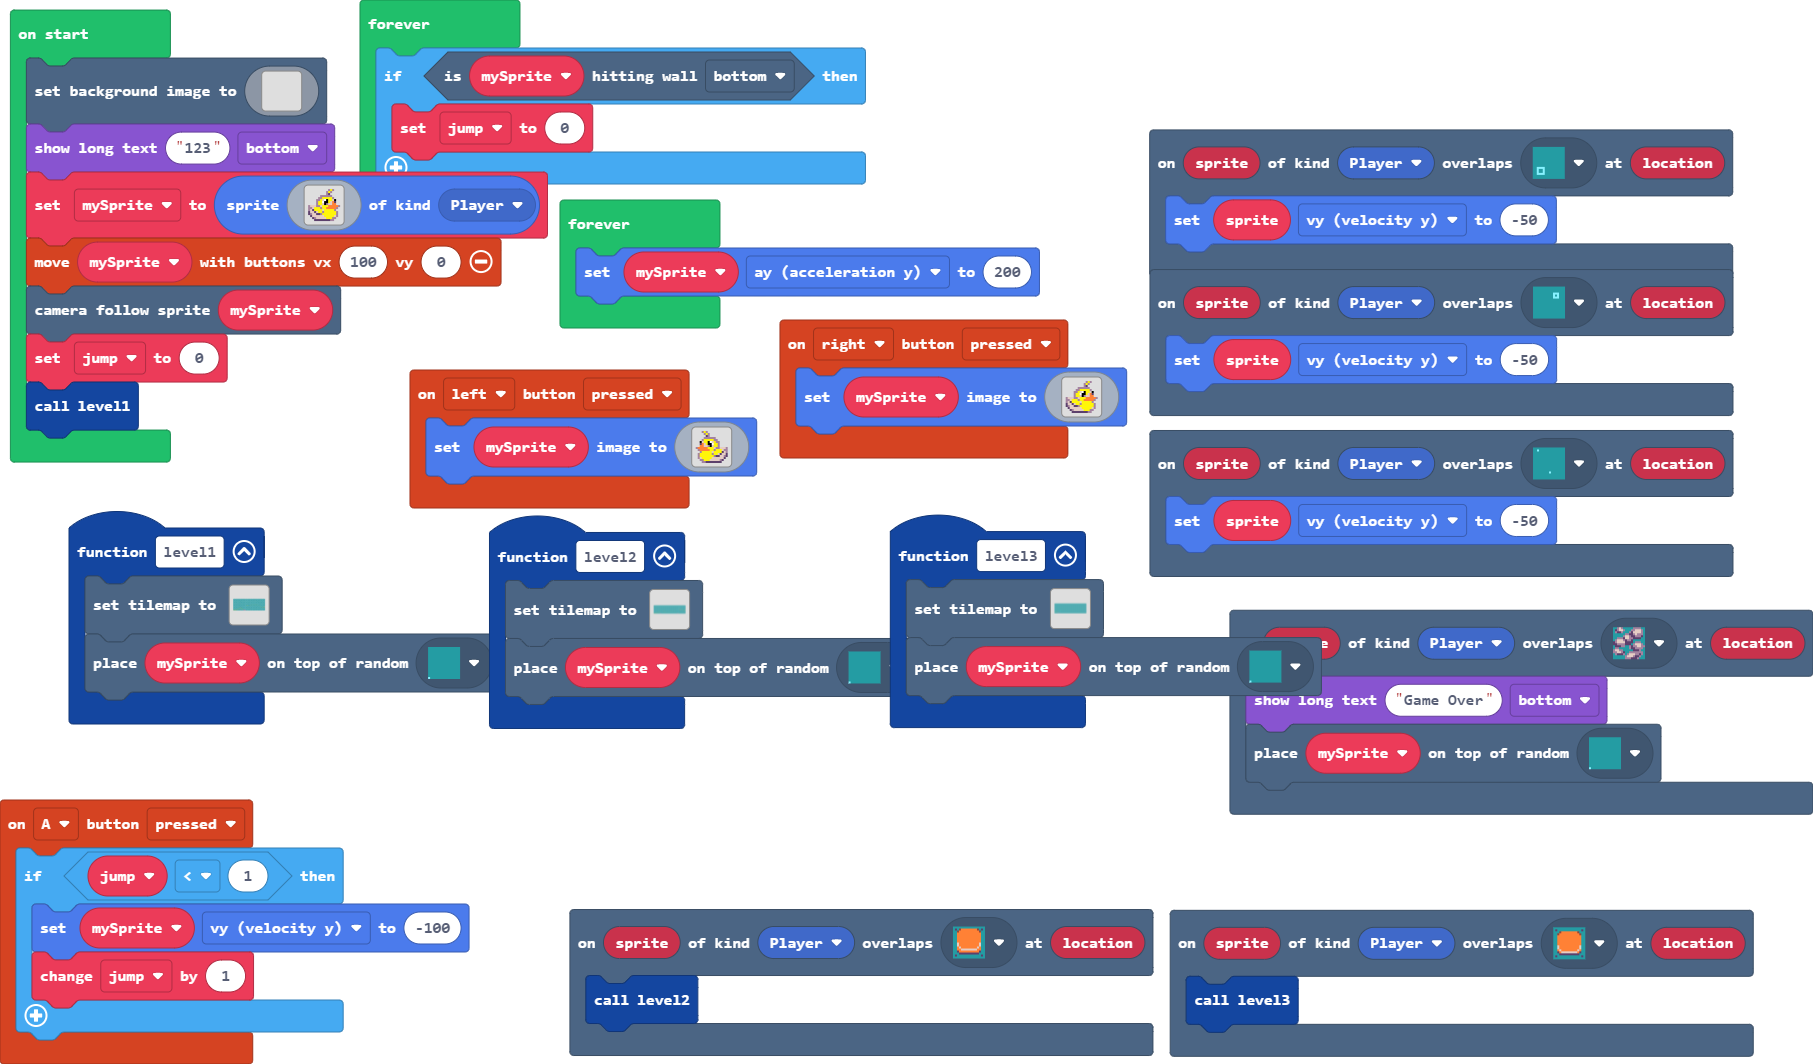
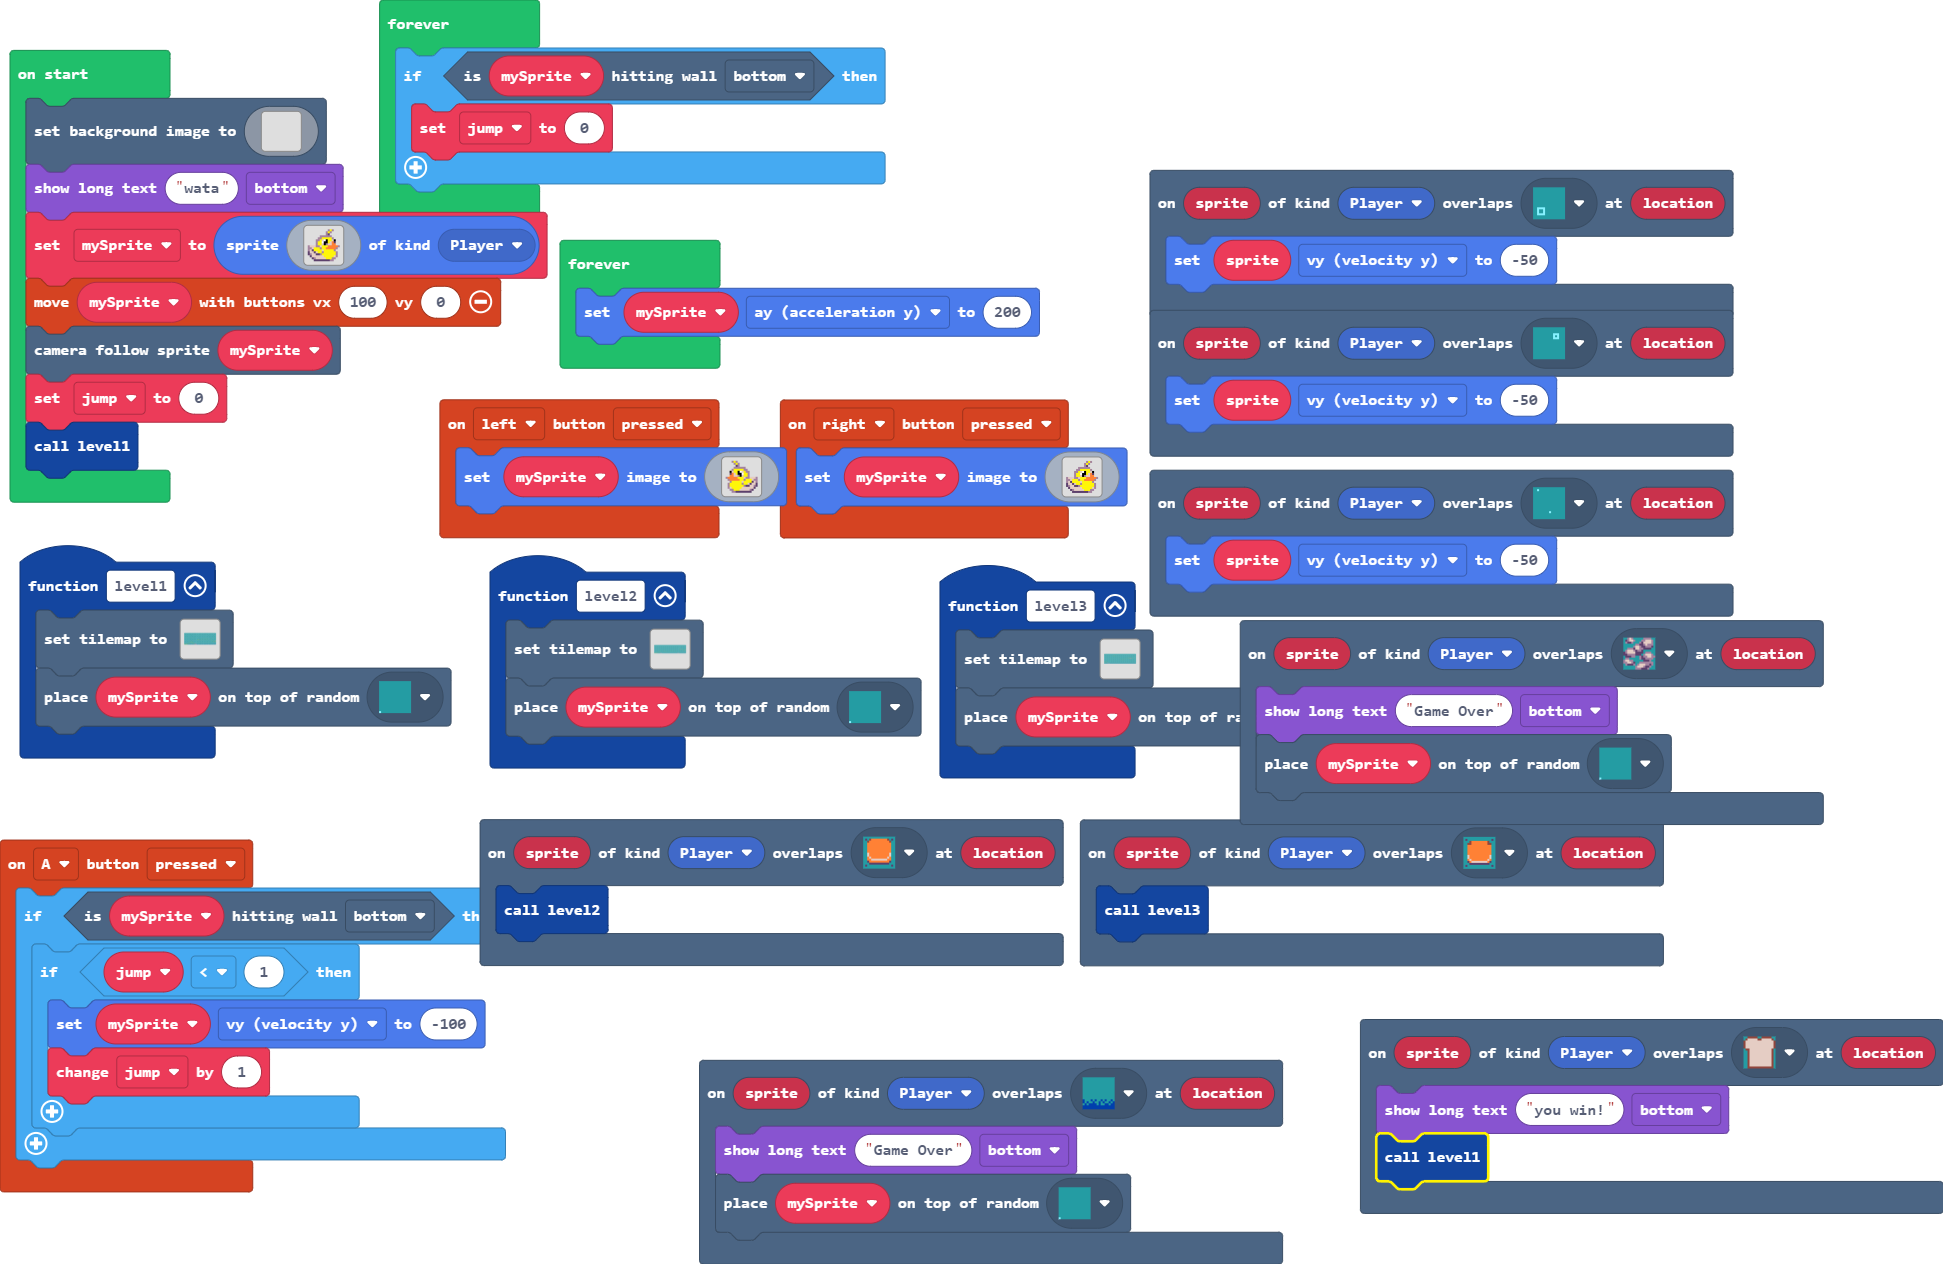
finished 3rd level and added some obsticals

diff --git a/tilemap.g.ts b/tilemap.g.ts
@@ -33,6 +33,12 @@ namespace myTiles {
     //% fixedInstance jres blockIdentity=images._tile
     export const tile15 = image.ofBuffer(hex``);
     //% fixedInstance jres blockIdentity=images._tile
+    export const tile17 = image.ofBuffer(hex``);
+    //% fixedInstance jres blockIdentity=images._tile
+    export const tile19 = image.ofBuffer(hex``);
+    //% fixedInstance jres blockIdentity=images._tile
+    export const tile18 = image.ofBuffer(hex``);
+    //% fixedInstance jres blockIdentity=images._tile
     export const tile16 = image.ofBuffer(hex``);
 
     helpers._registerFactory("tilemap", function(name: string) {
@@ -49,7 +55,7 @@ namespace myTiles {
 ........................................
 `, [myTiles.transparency16,myTiles.tile2,myTiles.tile4,myTiles.tile5,myTiles.tile6,myTiles.tile7], TileScale.Sixteen);
             case "level2":
[2 lines of base64/hex data omitted]
 ...................................................
 ...................................................
 ...................................................
@@ -68,9 +74,9 @@ namespace myTiles {
 .........2...2.....................................
 ......222.....222..................................
 222222.............................................
-`, [myTiles.transparency16,myTiles.tile2,myTiles.tile4,myTiles.tile5,myTiles.tile7,myTiles.tile8,myTiles.tile10,myTiles.tile11,myTiles.tile12,myTiles.tile13,myTiles.tile14], TileScale.Sixteen);
+`, [myTiles.transparency16,myTiles.tile2,myTiles.tile4,myTiles.tile5,myTiles.tile7,myTiles.tile8,myTiles.tile10,myTiles.tile11,myTiles.tile12,myTiles.tile13,myTiles.tile14,myTiles.tile17], TileScale.Sixteen);
             case "level3":
[2 lines of base64/hex data omitted]
 ................................................................................
 ................................................................................
 ................................................................................
@@ -91,34 +97,34 @@ namespace myTiles {
 ..........22....................2...............................................
 ........22......................................................................
 22222222........................................................................
-`, [myTiles.transparency16,myTiles.tile4,myTiles.tile5,myTiles.tile7,myTiles.tile10,myTiles.tile2,myTiles.tile8,myTiles.tile14,myTiles.tile12,myTiles.tile13,myTiles.tile15,myTiles.tile16], TileScale.Sixteen);
+`, [myTiles.transparency16,myTiles.tile4,myTiles.tile5,myTiles.tile7,myTiles.tile10,myTiles.tile2,myTiles.tile8,myTiles.tile14,myTiles.tile12,myTiles.tile13,myTiles.tile15,myTiles.tile16,myTiles.tile17], TileScale.Sixteen);
             case "level4":
-            case "level4":return tiles.createTilemap(hex`50001800010101010101010101010101010101010101010101010101010101010101010101010101010101010101010101010101010101010101010101010101010101010101010101010101010101010101010101010101010101010101010101010101010101010101010101010101010101010101010101010101010101010101010101010101010101010101010101010101010101010101010101010101010101010101010101010101010101010101010101010101010101010101010101010101010101010101010101010101010101010101010101010101010101010101010101010101010101010101010101010101010101010101010101010101010101010101010101010101010101010101010101010101010101010101010101010101010101010101010101010101010101010101010101010101010101010101010101010101010101010101010101010101010101010101010101010101010101010101010101010101010101010101010101010101010101010101010101010101010101010101010101010101010101010101010101010101010101010101010101010101010101010101010101010101010101010101010101010101010101010101010101010101010101010101010101010101010101010101010101010101010101010101010101010101010101010101010101010101010101010101010101010101010101010101010101010101010101010101010101010101010101010101010101010101010101010101010101010101010101010101010101010101010101010101010101010101010101010101010101010101010101010101010101010101010101010101010101010101010101010101010101010101010101010101010101010101010101010101010101010101010101010101010101010101010101010101010101010101010101010101010101010101010101010101010101010101010101010101010101010101010101010101010101010101010101010101010101010101010101010101010101010101010101010101010101010101010101010101010101010101010101010101010101010101010101010101010101010101010101010101010101010101010101010101010101010101010101010101010101010101010101010101010101010101010101010101010101010101010101010101010101010101010101010101010101010101010101010101010101010101010101010101010101010101010101010101010101010101010101010101010101010101010101010101010101010101010101010101010101010101010101010101010101010101010101010101010101010101010101010101010101010101010101010101010101010101010101010101010101010101010101010101010101010101010101010101010101010101010101010101010101010101010101010101010101010101010101010101010101010101010101010101010101010101010101010101010101010101010101010101010101010101010101010101010101010101010101010101010101010101010101010101010101010101010101010101010101010101010101010101010101010101010101010101010101010101010101010101010101010101010101010101010101010101010101010101010101010101010101010101010101010101010101010101010101010101010101010101010101010101010101010101010101010101010101010101010101010101010101010101010101050605010101010101010101010101010101010101010101010101010101010101010101010101010101010101010101010101010101010101010101010101010101010101010101010101010101010106050501010101010101010101010101010101010101010101010101010101010101010101010101010101010101010101010101010101010101010101010101010101010101010101010101010101050506010101010101010101010101010101010101010101010101010101010101010101010101010101010101010101010101010101010101010101010101010101010104010101010101010101010107050501010101010101010101010101010101010101010101010101010101010101010101010101010101010101010101010101010101010101010101010101010101010303030303030303010101010505050101010101010101010101010101010101010101010101010101010101010101010101010101010101010101010101010101010101010101010101010101010101010101010101010108080805070601010101010101010101010101010101010101010101010101010101010101010101010101010101010101010101010101010101010101010101010101010101010101010101010101010101010605050101010101010101010101010101010101010101010101010101010101010101010101010101010101010101010101010101010101010101010101010101010101010101010101010101010101020202010101010101010101010101010101010101010101010101010101010101010101010101010101010101010101010101010101010101010101010101010101010101`, img`
[1 lines of base64/hex data omitted]
+................................................................................
+................................................................................
+................................................................................
+................................................................................
+.......................222222...................................................
+................................................................................
+................................2...............................................
+................................................................................
+...................................2............................................
+..........................................................2.....................
+......................................2.................2...22222....22.........
+......................................................2.........................
+..........................................2.........2...........................
+..................................................2.............................
+..............................................222...............................
 ................................................................................
 ................................................................................
 ................................................................................
 ................................................................................
 ................................................................................
+22222222........................................................................
 ................................................................................
 ................................................................................
 ................................................................................
-................................................................................
-................................................................................
-................................................................................
-................................................................................
-................................................................................
-................................................................................
-................................................................................
-................................................................................
-................................................................................
-................................................................................
-................................................................................
-................................................................................
-................................................................................
-................................................................................
-................................................................................
-................................................................................
-`, [myTiles.transparency16,myTiles.tile4,myTiles.tile5,myTiles.tile7,myTiles.tile10,myTiles.tile2,myTiles.tile12,myTiles.tile13,myTiles.tile15], TileScale.Sixteen);
+`, [myTiles.transparency16,myTiles.tile4,myTiles.tile5,myTiles.tile7,myTiles.tile10,myTiles.tile2,myTiles.tile12,myTiles.tile13,myTiles.tile15,myTiles.tile17,myTiles.tile18,myTiles.tile8,myTiles.tile14], TileScale.Sixteen);
         }
         return null;
     })
@@ -156,6 +162,12 @@ namespace myTiles {
             case "tile14":return tile14;
             case "myTile13":
             case "tile15":return tile15;
+            case "myTile15":
+            case "tile17":return tile17;
+            case "myTile17":
+            case "tile19":return tile19;
+            case "myTile16":
+            case "tile18":return tile18;
             case "myTile14":
             case "tile16":return tile16;
         }

diff --git a/main.ts b/main.ts
@@ -5,14 +5,20 @@ function level1 () {
     tiles.setTilemap(tilemap`level2`)
     tiles.placeOnRandomTile(mySprite, assets.tile`myTile8`)
 }
+scene.onOverlapTile(SpriteKind.Player, assets.tile`myTile15`, function (sprite, location) {
+    game.showLongText("Game Over", DialogLayout.Bottom)
+    tiles.placeOnRandomTile(mySprite, assets.tile`myTile8`)
+})
 scene.onOverlapTile(SpriteKind.Player, assets.tile`myTile13`, function (sprite, location) {
     game.showLongText("Game Over", DialogLayout.Bottom)
     tiles.placeOnRandomTile(mySprite, assets.tile`myTile8`)
 })
 controller.A.onEvent(ControllerButtonEvent.Pressed, function () {
-    if (jump < 1) {
-        mySprite.vy = -100
-        jump += 1
+    if (mySprite.isHittingTile(CollisionDirection.Bottom)) {
+        if (jump < 1) {
+            mySprite.vy = -100
+            jump += 1
+        }
     }
 })
 controller.left.onEvent(ControllerButtonEvent.Pressed, function () {
@@ -46,6 +52,10 @@ function level2 () {
     tiles.setTilemap(tilemap`level3`)
     tiles.placeOnRandomTile(mySprite, assets.tile`myTile8`)
 }
+scene.onOverlapTile(SpriteKind.Player, assets.tile`myTile16`, function (sprite, location) {
+    game.showLongText("you win!", DialogLayout.Bottom)
+    level1()
+})
 controller.right.onEvent(ControllerButtonEvent.Pressed, function () {
     mySprite.setImage(img`
         . . . . . . . . . . b 5 b . . . 
@@ -199,7 +209,7 @@ scene.setBackgroundImage(img`
     ................................................................................................................................................................
     ................................................................................................................................................................
     `)
-game.showLongText("123", DialogLayout.Bottom)
+game.showLongText("wata", DialogLayout.Bottom)
 mySprite = sprites.create(img`
     . . . . . . . . . . b 5 b . . . 
     . . . . . . . . . b 5 b . . . . 
